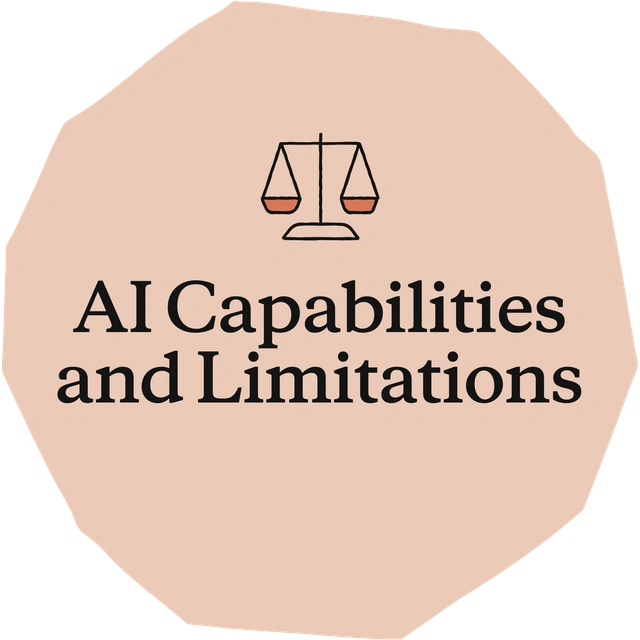
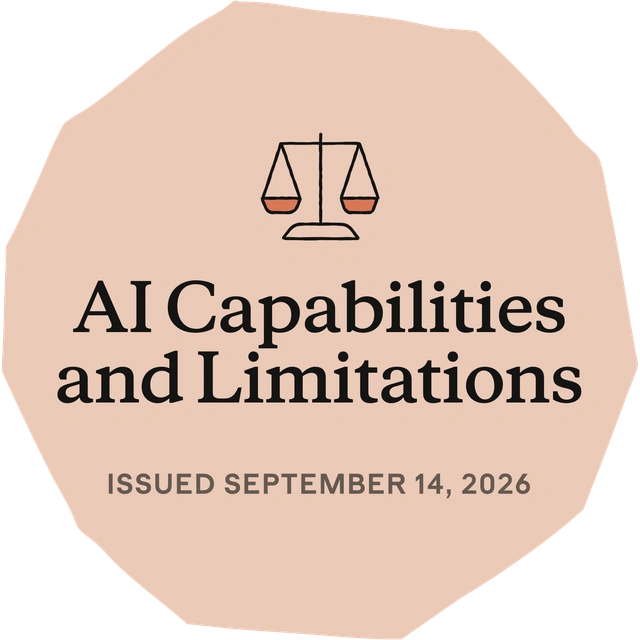
feat(claude-academy): update amber tile styling and add authentic badge seals with issued dates
- Set Claude Academy issuer tile background to Claude official amber (#D97757)
- Reduce tile font sizes for Claude (Anthropic Serif) and Academy (Anthropic Sans) for comfortable fit
- Replace course badge images with authentic BadgeSeal replicas including decagon shape, vector pictogram, course title, and issued date
- Update unit tests and verified all 237 unit tests and 41 e2e tests pass

Changed region(s): [[0.1562, 0.7188, 0.8438, 0.7812]]

diff --git a/src/app/certifications/data.test.ts b/src/app/certifications/data.test.ts
@@ -168,7 +168,7 @@ describe("coursework is never counted as a credential", () => {
       expect(p.id.startsWith("ce-claude-academy-")).toBe(true);
       expect(p.issuer).toBe("Claude Academy");
       expect(p.logo).toBe("/logos/claude.png");
-      expect(p.tile.tile).toBe("bg-[#141413]");
+      expect(p.tile.tile).toBe("bg-[#D97757]");
       expect(p.tile.wordmark).toBe("Claude");
       expect(p.tile.code).toBe("Academy");
       expect(p.courses.length).toBeGreaterThan(0);
@@ -496,7 +496,7 @@ describe("the row template's own fields are populated for every card", () => {
     expect(byId("ce-stanford-xee100")?.tile.wordmarkFamily).toBe("font-serif");
     expect(LEARNING_PATHS.every((e) => e.tile.tile === "bg-[#174EA6]")).toBe(true);
     expect(LEARNING_PATHS.every((e) => e.tile.wordmarkFamily === undefined)).toBe(true);
-    expect(CLAUDE_ACADEMY_PATHS.every((e) => e.tile.tile === "bg-[#141413]")).toBe(true);
+    expect(CLAUDE_ACADEMY_PATHS.every((e) => e.tile.tile === "bg-[#D97757]")).toBe(true);
     expect(CLAUDE_ACADEMY_PATHS.every((e) => e.tile.wordmark === "Claude" && e.tile.code === "Academy" && e.tile.wordmarkFamily === "font-serif")).toBe(true);
   });
 

diff --git a/src/components/certifications/IssuerTileMark.tsx b/src/components/certifications/IssuerTileMark.tsx
@@ -48,7 +48,7 @@ export function IssuerTileMark({ tile }: { tile: IssuerTile }) {
       <span
         className={cn(
           "relative t-label text-white",
-          isClaude ? "font-claude-serif text-sm md:text-base tracking-normal font-medium" : tile.wordmarkFamily,
+          isClaude ? "font-claude-serif text-xs md:text-sm tracking-normal font-medium" : tile.wordmarkFamily,
         )}
       >
         {tile.wordmark}
@@ -56,7 +56,7 @@ export function IssuerTileMark({ tile }: { tile: IssuerTile }) {
       <span
         className={cn(
           "relative t-label font-bold uppercase tracking-wider text-white/80",
-          isClaude && "font-claude-sans tracking-widest text-[9px] md:text-[10px]",
+          isClaude ? "font-claude-sans tracking-widest text-[8px] md:text-[9px]" : undefined,
         )}
       >
         {tile.code}

diff --git a/src/app/certifications/data.ts b/src/app/certifications/data.ts
@@ -1565,7 +1565,7 @@ function claudeBadge(slug: string, url: string): CourseBadge {
 }
 
 export const CLAUDE_ACADEMY_TILE: IssuerTile = {
-  tile: "bg-[#141413]",
+  tile: "bg-[#D97757]",
   wordmark: "Claude",
   code: "Academy",
   wordmarkFamily: "font-serif",
